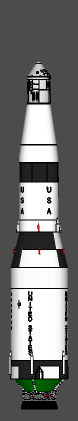
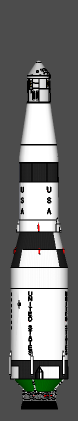
Now every change in Saturn V is reflected by three animation frames

Changed region(s): [[0.3333, 0.1235, 0.6667, 0.247]]

diff --git a/client/css/animations.css b/client/css/animations.css
@@ -106,36 +106,24 @@
 }
 /* STAGING ANIMATIONS - WebKit*/
 @-webkit-keyframes STAGING_SIC_LET {
-	from {
-		background-image:url(../img/01.png);
-	}
-	to {
-		background-image:url(../img/02.png);
-	}
-}
-@-webkit-keyframes STAGING_SII_LET {
-	from {
-		background-image:url(../img/03.png);
-	}
-	to {
-		background-image:url(../img/04.png);
-	}
+	0%		{ background-image: url(../img/01.png); }
+	50%		{ background-image: url(../img/01_S.png); }
+	100%	{ background-image: url(../img/02.png); }
 }
 @-webkit-keyframes STAGING_SIC {
-	from {
-		background-image:url(../img/01_NOLET.png);
-	}
-	to {
-		background-image:url(../img/02_NOLET.png);
-	}
+	0%		{ background-image: url(../img/01_NOLET.png); }
+	50%		{ background-image: url(../img/01_S_NOLET.png); }
+	100%	{ background-image: url(../img/02_NOLET.png); }
+}
+@-webkit-keyframes STAGING_SII_LET {
+	0%		{ background-image: url(../img/02.png); }
+	50%		{ background-image: url(../img/02_S.png); }
+	100%	{ background-image: url(../img/04.png); }
 }
 @-webkit-keyframes STAGING_SII {
-	from {
-		background-image:url(../img/03_NOLET.png);
-	}
-	to {
-		background-image:url(../img/04.png);
-	}
+	0%		{ background-image: url(../img/03_NOLET.png); }
+	50%		{ background-image: url(../img/02_S_NOLET.png); }
+	100%	{ background-image: url(../img/04.png); }
 }
 /* S-II INTERSTAGE JETTISON ANIMATIONS - WebKit */
 @-webkit-keyframes SII_INTERSTAGE_JETTISON_LET {

diff --git a/client/js/SATURN_V/controller/MainView.js b/client/js/SATURN_V/controller/MainView.js
@@ -343,13 +343,13 @@ JSMVC.define('SATURN_V.controller.MainView', {
 
 		for(i = 0; i < rocketView.length; i++) {
 			if(currentStage > 1) {
-				rocketView[i].style.animation = animationStr+' 1s';
-				rocketView[i].style['-webkit-animation'] = animationStr+' 1s';
+				rocketView[i].style.animation = animationStr+' 4s';
+				rocketView[i].style['-webkit-animation'] = animationStr+' 4s';
 			}
 			rocketView[i].style.backgroundImage = styleStr;
 		}
 
-		/* We have to remove all animations becouse of infinite playing while switching between views */
+		/* We have to remove all animations becouse of infinite playing while switching between panels */
 		setTimeout(function() {
 			for(j = 0; j < rocketView.length; j++) {
 				rocketView[j].style.animation = null;
